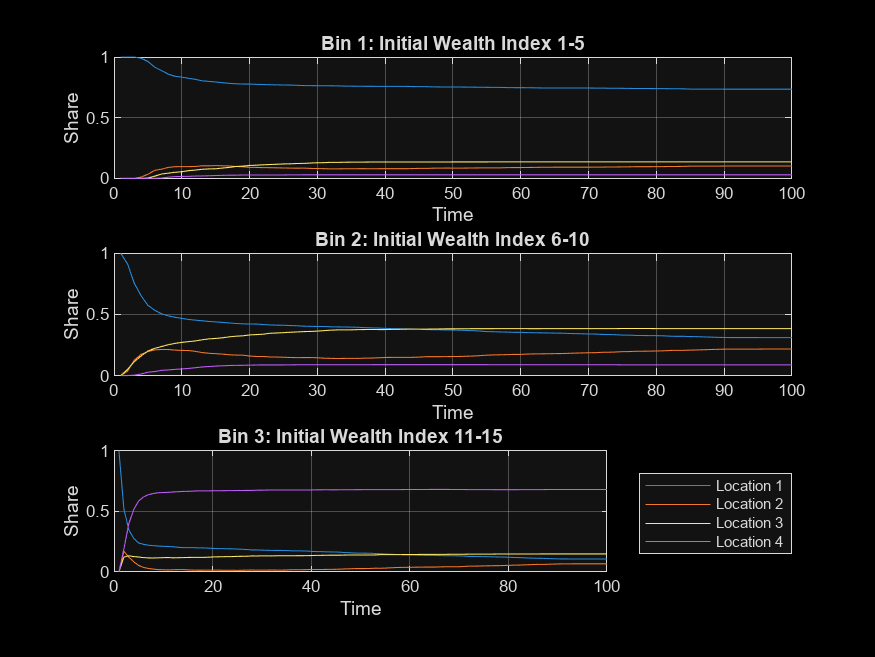
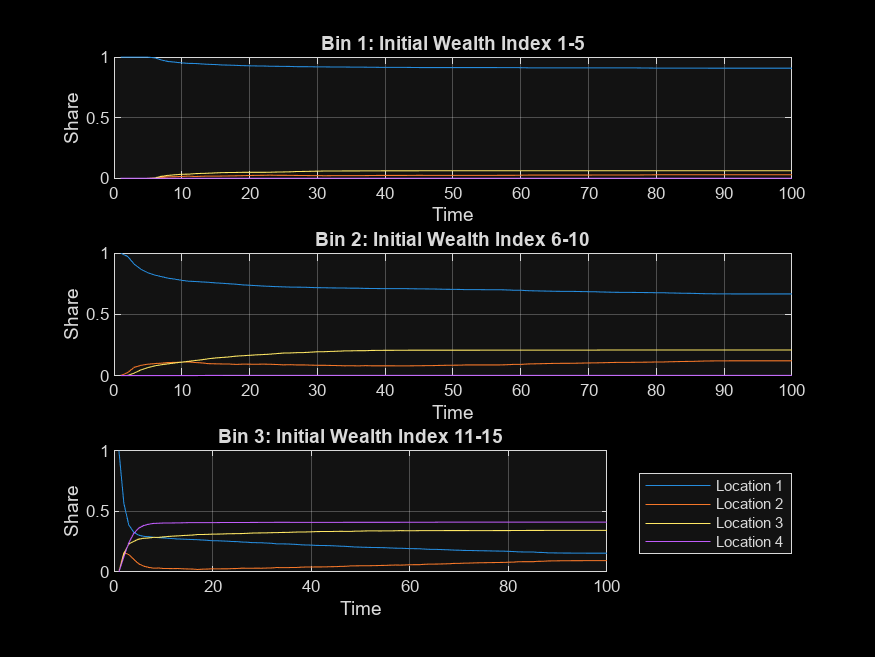
comit

diff --git a/Main.m b/Main.m
@@ -73,12 +73,12 @@ fprintf('\nEvaluating transportation-aid counterfactual...\n');
 
 transportAid = struct();
 transportAid.type            = 'transport';
-transportAid.startPeriod     = 3;                               % Aid becomes available from period 5 onwards
-transportAid.wealthThreshold = 6;                               % Eligible if asset index ≤ 4
-transportAid.massIncrease    = 0.20 * ones(dims.N, 1);          % Additional migrant mass outside destination 2
+transportAid.startPeriod     = 1;                               % Aid becomes available from period 5 onwards
+transportAid.wealthThreshold = 13;                              % Eligible if asset index ≤ 4
+transportAid.massIncrease    = 0.90* ones(dims.N, 1);          % Additional migrant mass outside destination 2
 transportAid.massIncrease(2) = 0;                               % No artificial mass for location 2
 transportAid.massIncrease(1) = 0;                               % No artificial mass for location 2
-transportAid.budget          = 3500;                            % Total funds E for the program
+transportAid.budget          = 2000;                            % Total funds E for the program
 
 try
     [pol_transport, M_transport, it_transport, ~] = solveDynamicEquilibrium( ...
@@ -115,11 +115,11 @@ fprintf('\nEvaluating food-and-shelter aid counterfactual...\n');
 
 shelterAid = struct();
 shelterAid.type             = 'shelter';
-shelterAid.startPeriod      = 3;             % Transfers available from period 4
-shelterAid.wealthThreshold  = 6;             % Eligible if asset index ≤ 5
-shelterAid.transferAmount   = 1.5;          % Wealth transfer when aid is granted
-shelterAid.grantProbability = 0.35;          % Probability of receiving a transfer
-shelterAid.budget           = 3500;           % Total funds for the program
+shelterAid.startPeriod      = 1;             % Transfers available from period 4
+shelterAid.wealthThreshold  = 7;             % Eligible if asset index ≤ 5
+shelterAid.transferAmount   = 0.7;          % Wealth transfer when aid is granted
+shelterAid.grantProbability = 0.60;          % Probability of receiving a transfer
+shelterAid.budget           = 2000;           % Total funds for the program
 
 try
     [pol_shelter, M_shelter, it_shelter, ~] = solveDynamicEquilibrium( ...

diff --git a/utils/SetParameters.m b/utils/SetParameters.m
@@ -41,12 +41,12 @@ function params = SetParameters(dims, overrides)
     %% Migration cost primitives
     params.tilde_ttau = [5; 3; 9];
     params.hat_ttau   = [3; 1; 2; 7];
-    params.aalpha     = 0.5;
+    params.aalpha     = 0.75;
     params.nnu        = 0.1;
 
     %% Network-related parameters
     params.ggamma     = 0.25;
-    params.cchi       = 0.05;
+    params.cchi       = 0.03;
 
     %% Markov shocks
     params.baseUp_eta = 0.10;

diff --git a/utils/setGridsAndIndices.m b/utils/setGridsAndIndices.m
@@ -33,7 +33,7 @@ function [grids, indexes] = setGridsAndIndices(dims)
 
     %% 1. Asset Grids (coarse and fine)
     lb.a		= 0;          % Lower bound of asset holdings
-    ub.a		= 40;         % Upper bound of asset holdings
+    ub.a		= 32;         % Upper bound of asset holdings
     ca			= 3;          % Curvature for coarse grid
 
     grids.agrid	= nodeunif(dims.Na, 0, (ub.a - lb.a)^(1/ca)).^ca + lb.a;
